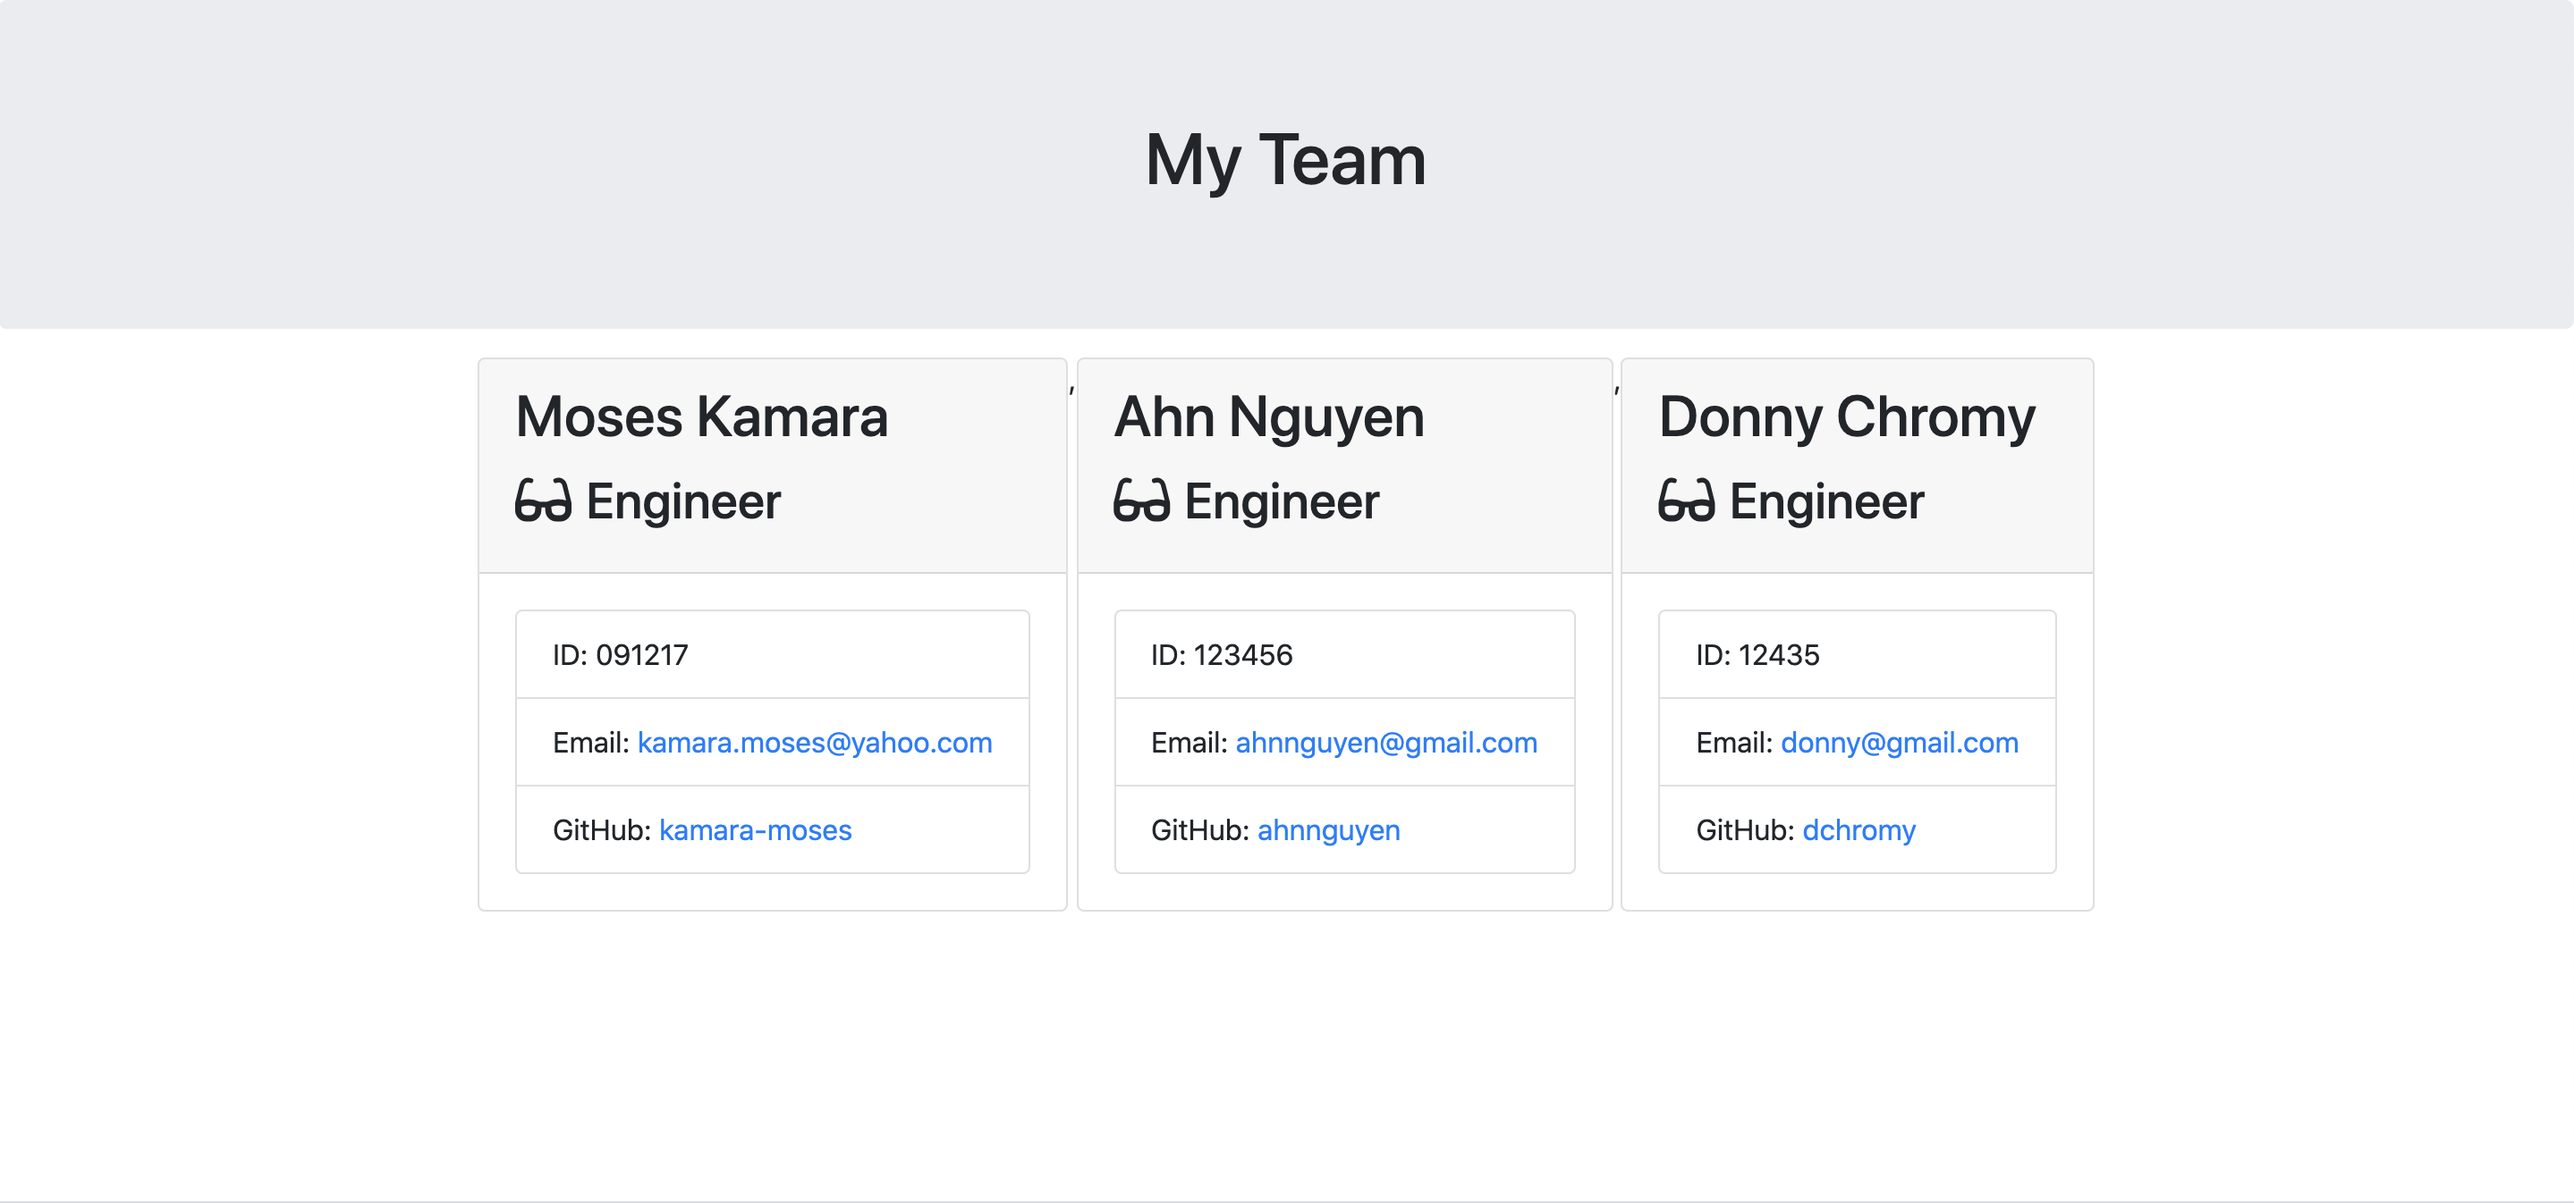
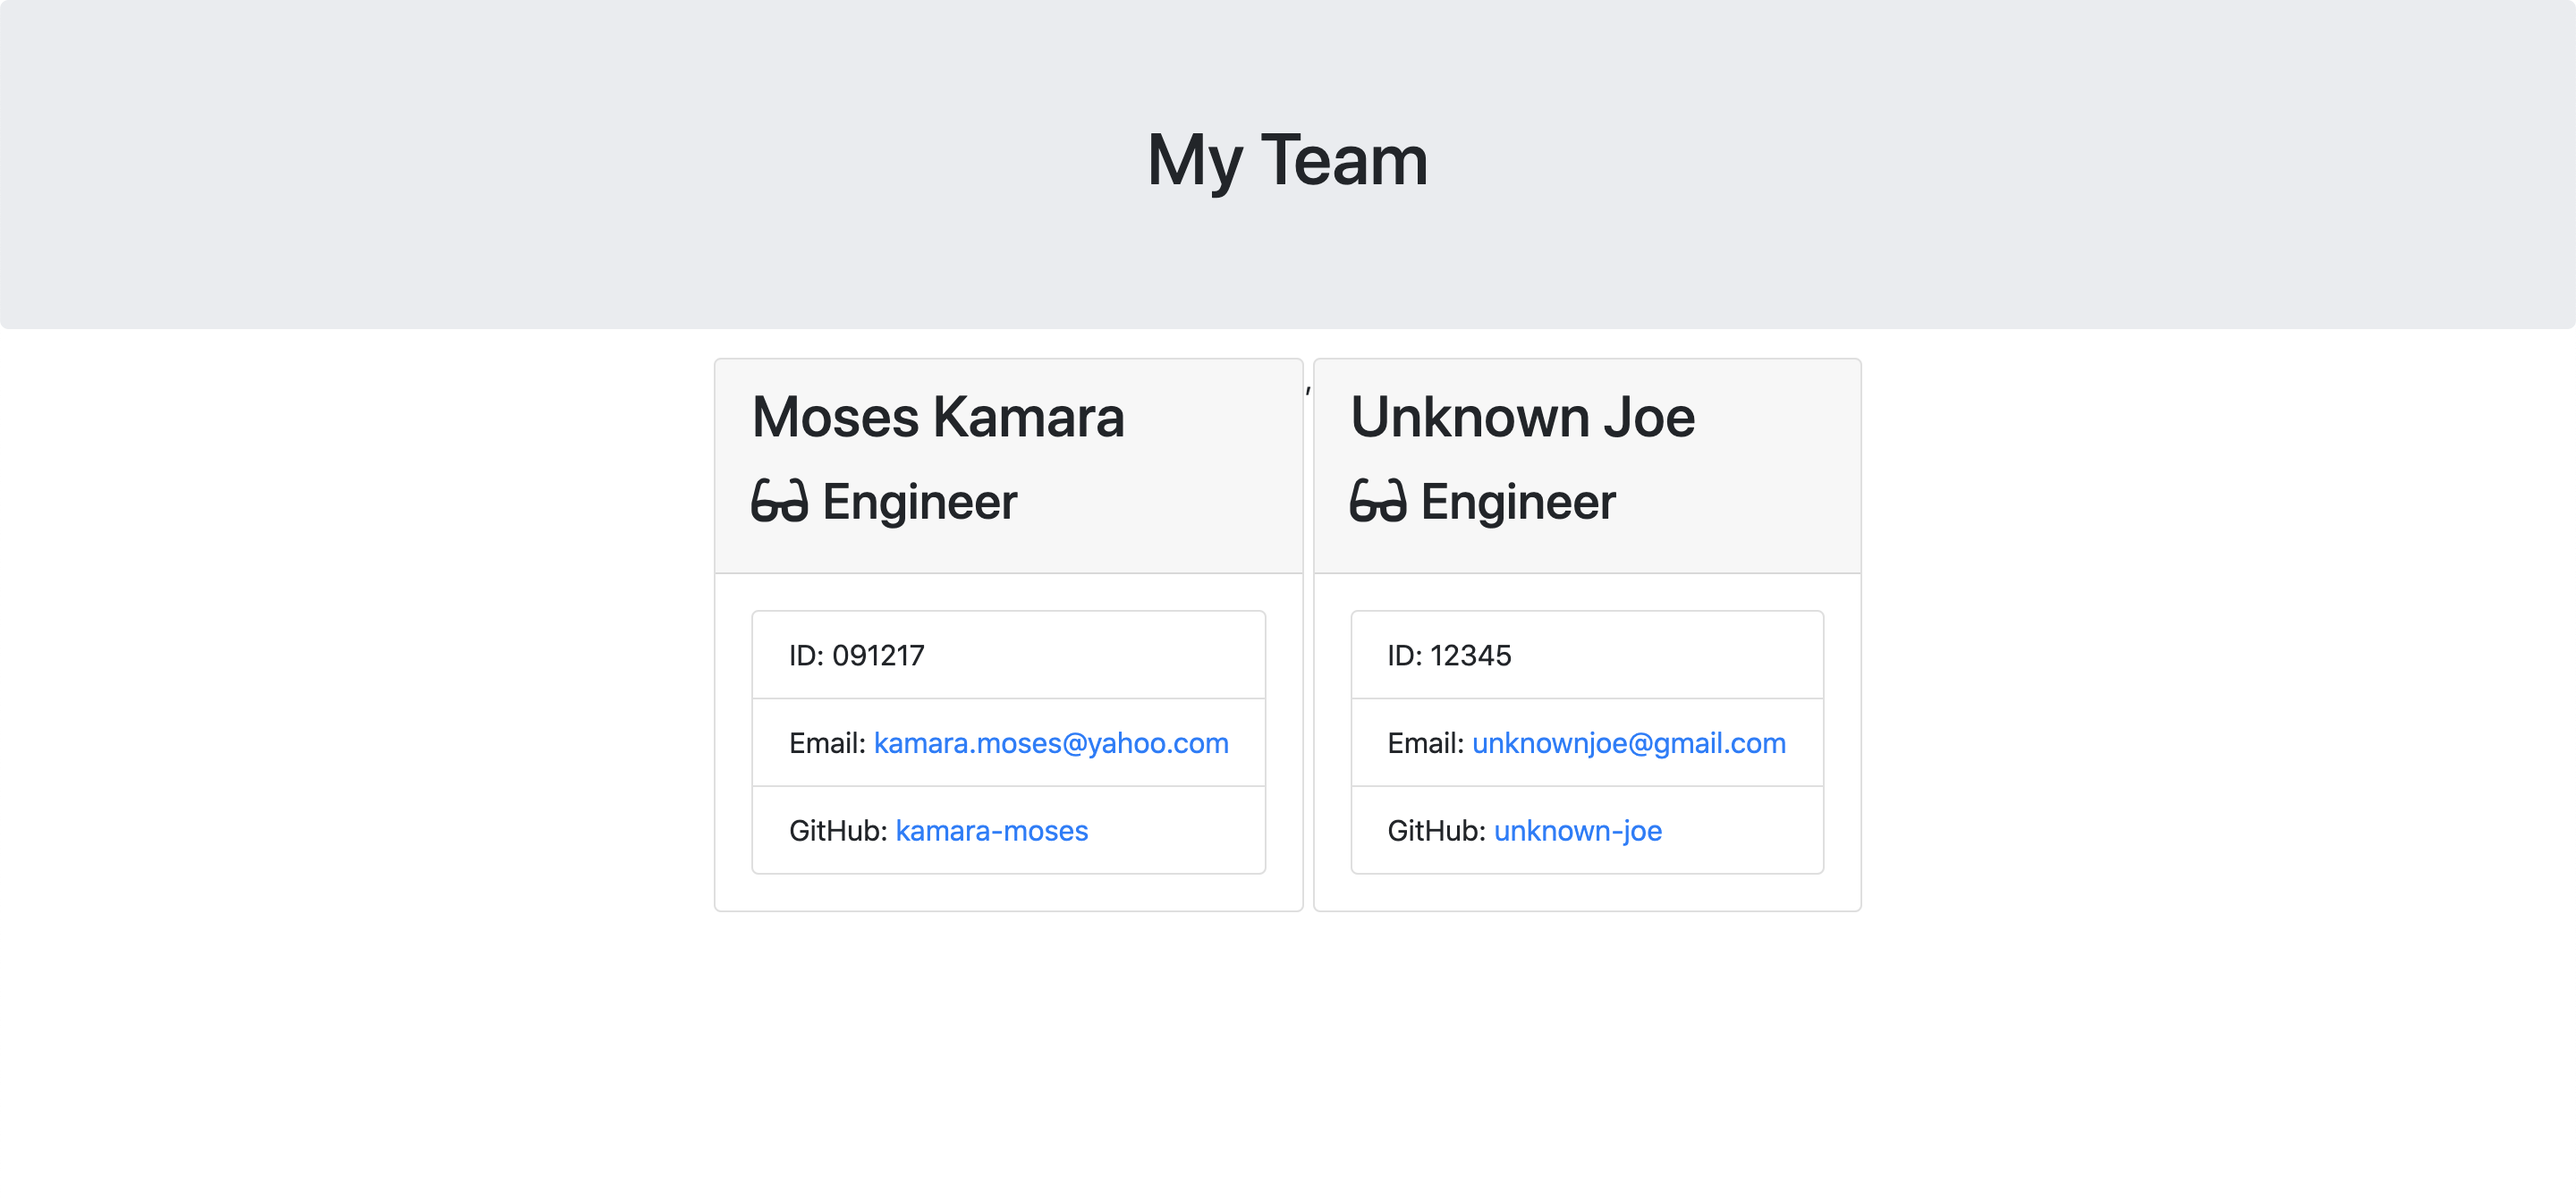
updated readme with gif and image of running application

diff --git a/output/team.html b/output/team.html
@@ -38,27 +38,14 @@
 </div>
 ,<div class='card employee-card'>
     <div class='card-header'>
-        <h2 class='card-title'>Ahn Nguyen</h2>
+        <h2 class='card-title'>Unknown Joe</h2>
         <h3 class='card-title'><i class='fas fa-glasses mr-2'></i>Engineer</h3>
     </div>
     <div class='card-body'>
         <ul class='list-group'>
-            <li class='list-group-item'>ID: 123456</li>
-            <li class='list-group-item'>Email: <a href='mailto:ahnnguyen@gmail.com'>ahnnguyen@gmail.com</a></li>
-            <li class='list-group-item'>GitHub: <a href='https://github.com/ahnnguyen' target='_blank' rel='noopener noreferrer'>ahnnguyen</a></li>
-        </ul>
-    </div>
-</div>
-,<div class='card employee-card'>
-    <div class='card-header'>
-        <h2 class='card-title'>Donny Chromy</h2>
-        <h3 class='card-title'><i class='fas fa-glasses mr-2'></i>Engineer</h3>
-    </div>
-    <div class='card-body'>
-        <ul class='list-group'>
-            <li class='list-group-item'>ID: 12435</li>
-            <li class='list-group-item'>Email: <a href='mailto:donny@gmail.com'>donny@gmail.com</a></li>
-            <li class='list-group-item'>GitHub: <a href='https://github.com/dchromy' target='_blank' rel='noopener noreferrer'>dchromy</a></li>
+            <li class='list-group-item'>ID: 12345</li>
+            <li class='list-group-item'>Email: <a href='mailto:unknownjoe@gmail.com'>unknownjoe@gmail.com</a></li>
+            <li class='list-group-item'>GitHub: <a href='https://github.com/unknown-joe' target='_blank' rel='noopener noreferrer'>unknown-joe</a></li>
         </ul>
     </div>
 </div>

diff --git a/README.md b/README.md
@@ -3,6 +3,8 @@
 ## Badges
 [![License: MIT](https://img.shields.io/badge/License-MIT-yellow.svg)](https://opensource.org/licenses/MIT)
 
+![Team Profile Generator](images/Team-Profile-Generator.gif)
+
 <img src='images/Team-Profile-Generator.png' alt='Profile Generator img'>
 
 ## Project Description:
